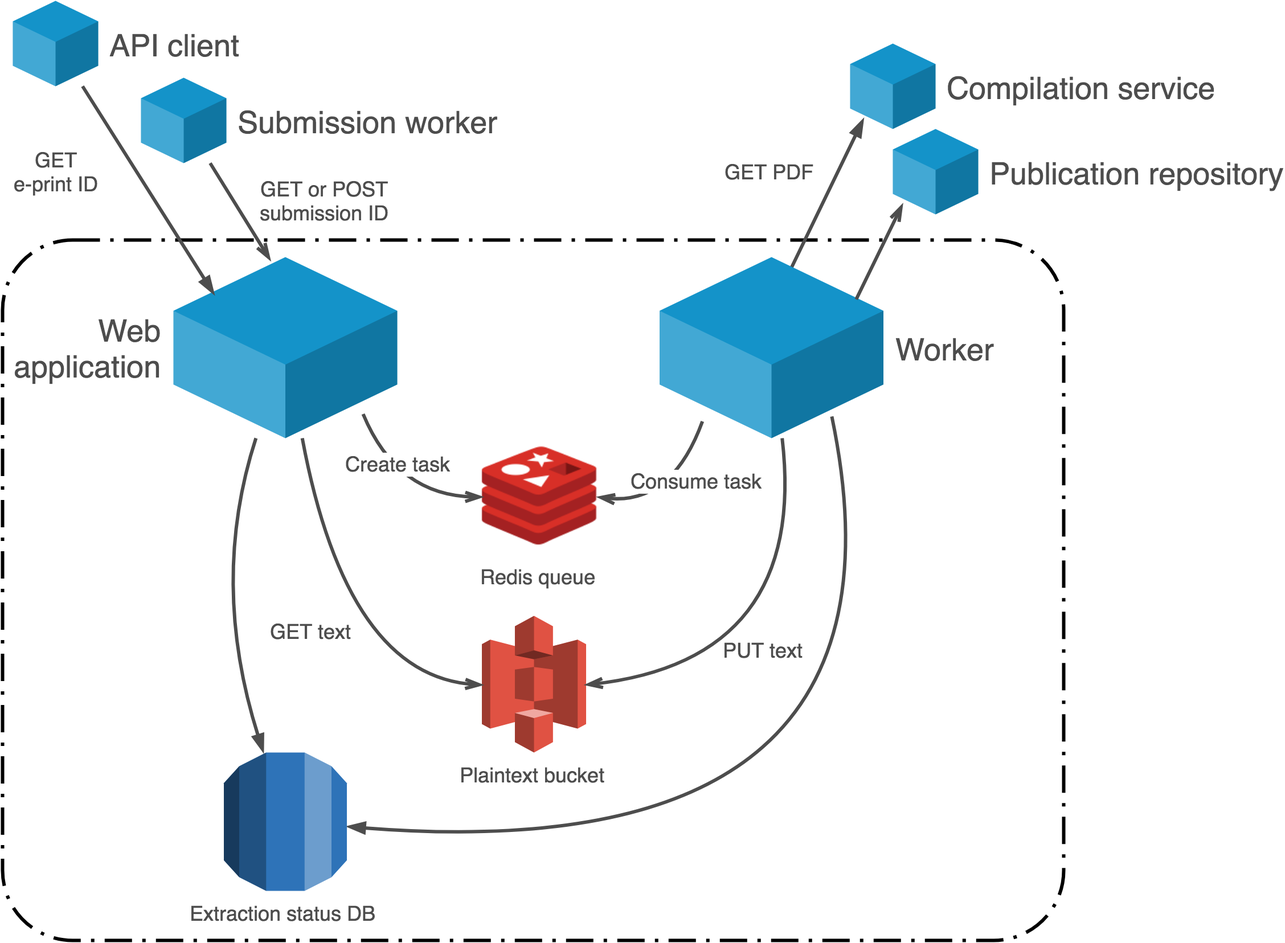
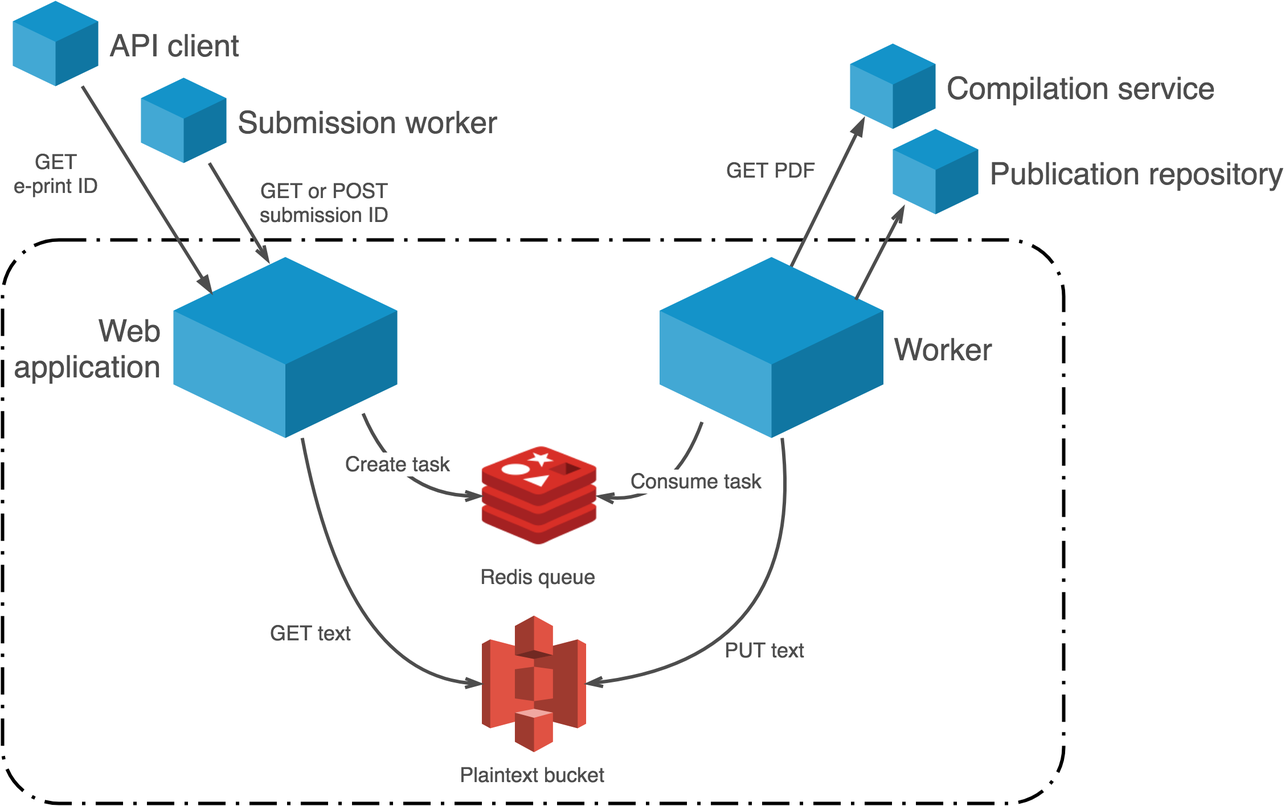
updated docs

diff --git a/searchindex.js b/searchindex.js
@@ -1,1 +1,1 @@
-Search.setIndex({docnames:["architecture","fulltext/fulltext","fulltext/fulltext.agent","fulltext/fulltext.agent.consumer","fulltext/fulltext.agent.tests","fulltext/fulltext.agent.tests.test_record_processor","fulltext/fulltext.celery","fulltext/fulltext.celeryconfig","fulltext/fulltext.config","fulltext/fulltext.controllers","fulltext/fulltext.extract","fulltext/fulltext.factory","fulltext/fulltext.process","fulltext/fulltext.process.psv","fulltext/fulltext.routes","fulltext/fulltext.services","fulltext/fulltext.services.pdf","fulltext/fulltext.services.store","fulltext/fulltext.services.store.tests","fulltext/fulltext.worker","index"],envversion:53,filenames:["architecture.rst","fulltext/fulltext.rst","fulltext/fulltext.agent.rst","fulltext/fulltext.agent.consumer.rst","fulltext/fulltext.agent.tests.rst","fulltext/fulltext.agent.tests.test_record_processor.rst","fulltext/fulltext.celery.rst","fulltext/fulltext.celeryconfig.rst","fulltext/fulltext.config.rst","fulltext/fulltext.controllers.rst","fulltext/fulltext.extract.rst","fulltext/fulltext.factory.rst","fulltext/fulltext.process.rst","fulltext/fulltext.process.psv.rst","fulltext/fulltext.routes.rst","fulltext/fulltext.services.rst","fulltext/fulltext.services.pdf.rst","fulltext/fulltext.services.store.rst","fulltext/fulltext.services.store.tests.rst","fulltext/fulltext.worker.rst","index.rst"],objects:{"":{fulltext:[1,0,0,"-"]},"fulltext.agent":{consumer:[3,0,0,"-"],tests:[4,0,0,"-"]},"fulltext.agent.consumer":{BadMessage:[3,1,1,""],FulltextRecordProcessor:[3,2,1,""]},"fulltext.agent.consumer.FulltextRecordProcessor":{process_record:[3,3,1,""],sleep:[3,4,1,""]},"fulltext.agent.tests":{test_record_processor:[5,0,0,"-"]},"fulltext.agent.tests.test_record_processor":{TestIndexPaper:[5,2,1,""]},"fulltext.agent.tests.test_record_processor.TestIndexPaper":{setUp:[5,3,1,""],test_notify:[5,3,1,""]},"fulltext.config":{APPLICATION_ROOT:[8,5,1,""],DEBUG:[8,5,1,""],EXPLAIN_TEMPLATE_LOADING:[8,5,1,""],JSONIFY_MIMETYPE:[8,5,1,""],JSONIFY_PRETTYPRINT_REGULAR:[8,5,1,""],JSON_AS_ASCII:[8,5,1,""],JSON_SORT_KEYS:[8,5,1,""],KINESIS_ENDPOINT:[8,5,1,""],KINESIS_SLEEP:[8,5,1,""],KINESIS_STREAM:[8,5,1,""],KINESIS_VERIFY:[8,5,1,""],LOGGER_HANDLER_POLICY:[8,5,1,""],LOGGER_NAME:[8,5,1,""],MAX_CONTENT_LENGTH:[8,5,1,""],PERMANENT_SESSION_LIFETIME:[8,5,1,""],PREFERRED_URL_SCHEME:[8,5,1,""],PRESERVE_CONTEXT_ON_EXCEPTION:[8,5,1,""],PROPAGATE_EXCEPTIONS:[8,5,1,""],SECRET_KEY:[8,5,1,""],SEND_FILE_MAX_AGE_DEFAULT:[8,5,1,""],SERVER_NAME:[8,5,1,""],SESSION_COOKIE_DOMAIN:[8,5,1,""],SESSION_COOKIE_HTTPONLY:[8,5,1,""],SESSION_COOKIE_NAME:[8,5,1,""],SESSION_COOKIE_PATH:[8,5,1,""],SESSION_COOKIE_SECURE:[8,5,1,""],SESSION_REFRESH_EACH_REQUEST:[8,5,1,""],TEMPLATES_AUTO_RELOAD:[8,5,1,""],TESTING:[8,5,1,""],TRAP_BAD_REQUEST_ERRORS:[8,5,1,""],TRAP_HTTP_EXCEPTIONS:[8,5,1,""],USE_X_SENDFILE:[8,5,1,""],VERSION:[8,5,1,""]},"fulltext.controllers":{extract:[9,6,1,""],get_task_status:[9,6,1,""],retrieve:[9,6,1,""]},"fulltext.extract":{do_extraction:[10,6,1,""],run_docker:[10,6,1,""],update_sent_state:[10,6,1,""]},"fulltext.factory":{create_web_app:[11,6,1,""],create_worker_app:[11,6,1,""]},"fulltext.process":{psv:[13,0,0,"-"]},"fulltext.process.psv":{expandWords:[13,6,1,""],normalize_text_psv:[13,6,1,""],process_text:[13,6,1,""],split_on_references:[13,6,1,""],tidy_txt_from_pdf:[13,6,1,""]},"fulltext.routes":{best_match:[14,6,1,""],extract_fulltext:[14,6,1,""],ok:[14,6,1,""],retrieve:[14,6,1,""],retrieve_submission:[14,6,1,""],task_status:[14,6,1,""]},"fulltext.services":{pdf:[16,0,0,"-"],store:[17,0,0,"-"]},"fulltext.services.pdf":{RetrievePDFSession:[16,2,1,""],current_session:[16,6,1,""],exists:[16,6,1,""],get_session:[16,6,1,""],init_app:[16,6,1,""],is_valid_url:[16,6,1,""],retrieve:[16,6,1,""]},"fulltext.services.pdf.RetrievePDFSession":{exists:[16,3,1,""],is_valid_url:[16,3,1,""],retrieve:[16,3,1,""]},"fulltext.services.store":{DoesNotExist:[17,1,1,""],S3Session:[17,2,1,""],current_session:[17,6,1,""],exists:[17,6,1,""],get_session:[17,6,1,""],init_app:[17,6,1,""],retrieve:[17,6,1,""],store:[17,6,1,""],tests:[18,0,0,"-"]},"fulltext.services.store.S3Session":{create_bucket:[17,3,1,""],exists:[17,3,1,""],retrieve:[17,3,1,""],store:[17,3,1,""]},"fulltext.services.store.tests":{TestStore:[18,2,1,""]},"fulltext.services.store.tests.TestStore":{test_store_content:[18,3,1,""]},fulltext:{agent:[2,0,0,"-"],celery:[6,0,0,"-"],celeryconfig:[7,0,0,"-"],config:[8,0,0,"-"],controllers:[9,0,0,"-"],extract:[10,0,0,"-"],factory:[11,0,0,"-"],process:[12,0,0,"-"],routes:[14,0,0,"-"],services:[15,0,0,"-"],worker:[19,0,0,"-"]}},objnames:{"0":["py","module","Python module"],"1":["py","exception","Python exception"],"2":["py","class","Python class"],"3":["py","method","Python method"],"4":["py","attribute","Python attribute"],"5":["py","data","Python data"],"6":["py","function","Python function"]},objtypes:{"0":"py:module","1":"py:exception","2":"py:class","3":"py:method","4":"py:attribute","5":"py:data","6":"py:function"},terms:{"03t14":3,"boolean":10,"byte":[3,8],"case":[5,18],"class":[3,5,16,17,18],"default":[8,10,14,17],"function":10,"import":[],"int":[3,9],"new":[0,2,13,16,17,20],"public":[0,20],"return":[3,8,9,10,13,14,16,17,20],"static":8,"true":[3,8,10,16,17],"try":[],"while":[],AWS:[],CVS:13,Eqs:13,For:2,TLS:[],That:[],The:[0,2,5,8,13,16,17,20],These:[],Used:17,Uses:17,With:8,abbrevi:13,abl:20,about:[],accept:[14,16],access:20,access_kei:3,account:[],action:[],activ:8,actor:[],addit:13,addition:10,address:[],affect:8,after:0,age:8,agent:[1,8],all:[5,8,13,20],allow:20,along:[],alphabet:13,also:[0,8,17],altern:[8,13],alwai:8,amount:8,analysi:[],ancestor:[],ani:[8,9,10,20],announc:[0,20],anoth:[],api:[0,14,20],app:[16,17],appear:8,applic:[0,6,8,9,11,16,17,19,20],application_root:8,architectur:20,arg:10,argument:10,arrai:[],articl:13,arxiv:[0,3,5,9,10,13,14,16,17],ascii:[8,13],asdf1234:8,associ:16,assum:[],asynchron:10,at_timestamp:3,attack:[],attempt:8,attribut:[],authent:[],author:[],automat:[8,20],avail:[0,8,13,14,16],aws_access_key_id:17,aws_secret_access_kei:17,back_off:3,bad:[8,13],badmessag:3,badrequest:8,balanc:[],base:[3,5,16,17,18],baseconsum:3,baselin:[],basi:8,batch_siz:3,befor:8,behavior:8,being:[],best:14,best_match:14,better:13,between:[],bibliographi:13,blueprint:[8,14],board:[],bodi:10,bool:[16,17],both:[0,20],botocor:17,broad:[],broadli:13,browser:[],brute:[],bubbl:8,bucket:[0,17],build:[],bulk:0,bump:8,bypass:[],cach:8,cacheabl:8,call:3,can:[8,10],cannot:[0,8],caus:[],celeri:[0,1,7,19],celeryconfig:1,certif:8,chang:[0,8],charact:13,check:[8,9,14,17],checkpoint:3,chosen:[],clean:13,cleanup:[10,12],click:[],client:[0,17],cluster:[],cmd:10,code:8,combin:[],come:8,command:[],common:13,compar:[],comparison:[],compil:0,complet:2,compon:11,compromis:[],confid:[],config:1,configur:[7,8,16,17],conjunct:17,consid:[],consist:8,consum:[0,1,2],contain:20,container_dir:10,content:[0,8,9,14,17,18,20],content_format:[9,14,17],content_typ:9,context:[8,16,20],control:[1,8],convers:13,convert:13,cooki:8,core:16,corpu:20,correspond:17,corrupt:[],cost:8,could:17,creat:[0,3,16,17],create_bucket:17,create_web_app:11,create_worker_app:11,creation:[],credenti:[],csrf:[],current:[14,17],current_sess:[16,17],daemon:10,data:[3,8,17],databas:0,datetim:8,deal:8,debug:8,debugg:8,decrypt:[],delet:[],deploi:[],desktop:[],deter:[],determin:[14,16,17],dev:8,develop:[],devic:[],dict:[9,17],dictionari:8,differ:[],digest:[],direct:[],disabl:8,disallow:16,displai:[],do_extract:10,doc:7,docker:10,dockerfil:10,docsim:13,docstr:8,document:[3,8,16],document_id:16,doe:[0,8,17],doesnotexist:17,domain:8,done:8,downstream:0,dsl:[],duplic:0,durat:3,dure:0,each:[2,3,8],either:8,enabl:8,encod:8,encompass:[],encount:3,encrypt:[],end:[],endpoint:[3,8],endpoint_url:17,enforc:8,ensur:8,enter:[],entir:[8,20],equat:13,error:8,escap:[],evalu:16,event:[],everi:8,evolv:[],exactli:8,exampl:[],except:[3,8,17],execut:8,exfiltr:[],exist:[0,10,16,17],exp:13,expand:13,expandword:13,explain:8,explain_template_load:8,explicitli:8,expos:10,extern:[0,8,15],extract:[0,1,2,3,8,9,13,14,17,18],extract_fulltext:14,extractor:[0,17],facil:17,factori:1,fail:[3,8],failur:[],fals:[8,10,17],fig:13,figur:[8,13],file:8,filehandl:10,filenam:10,find:[0,8],fix:13,flag:8,flask:[0,8],follow:[],foocooki:[],forc:[0,8,9],forev:10,form:[13,20],format:[10,13,17,20],former:[],found:8,frame:[],fraudul:[],from:[0,8,10,13,16,17,20],fulfil:0,full:[9,13,14,16,17,20],fulltext:0,fulltextrecordprocessor:3,gain:[],gener:[0,2,8,10,17],get:[0,8,14,16,17],get_send_file_max_ag:8,get_sess:[16,17],get_task_statu:9,getuid:10,give:[8,13],given:14,greater:8,greek:13,group:13,hairi:8,handl:[0,9,14],handler:8,harvest:[],has:5,hash:8,have:8,head:16,header:[8,10,14,16],health:14,heavili:[],help:[0,8],here:[],high:0,higher:[],hook:8,host_dir:10,hour:8,how:8,html:[],http:[0,8,16],httponli:8,human:[],id_typ:[9,14],identifi:[16,17],ifram:[],ignor:13,imag:10,imperson:[],implement:0,implicitli:8,imposs:[],improv:[8,20],includ:0,incom:8,independ:8,index:[0,3,5,8,20],indexingfail:3,indic:[3,8],individu:3,info:8,inform:14,infrastructur:[],init_app:[16,17],initi:[5,6,11,19],inject:[],insecur:[],instanc:[8,11,16],instead:8,integ:8,integr:[14,15,16],interact:[],intercept:[],interest:[],interfac:16,intern:8,internet:[],introspect:8,invalid:16,involv:[],ioerror:16,is_placehold:17,is_valid_url:16,issu:[],its:0,itself:[],jack:[],json:[8,9,17],json_as_ascii:8,json_sort_kei:8,jsonifi:8,jsonify_mimetyp:8,jsonify_prettyprint_regular:8,just:[13,17],jwt:[],kei:8,keyword:13,kind:[],kinesi:0,kinesis_endpoint:8,kinesis_sleep:8,kinesis_stream:8,kinesis_verifi:8,know:8,kubernet:[],kwarg:10,larg:[],last:13,latest:0,latter:[],launch:10,leak:[],leakag:[],left:13,legaci:[],length:8,level:0,leverag:0,lifetim:8,lightweight:0,like:8,likewis:8,limit:[],line:13,list:[10,13],live:8,load:8,localhost:8,locat:[8,16],log:8,logger:8,logger_handler_polici:8,logger_nam:8,look:13,mai:0,mail:[],make:[0,10],make_respons:[],malform:3,malici:[],mani:[3,8],manipul:[],mark:13,markupsaf:[],max:8,max_content_length:8,max_refs_fract:13,mean:8,mechan:13,messag:8,metadata:[],metadatarecordprocessor:5,method:[12,13],methodnam:[5,18],might:8,mime:8,minim:[],mitig:[],mobil:[],mock_client_factori:[5,18],mock_get_config:18,mock_task:5,mock_url_for:5,mode:8,modif:8,modifi:8,modul:[1,2,4,12,15,17,20],monitor:0,more:13,most:[0,20],mount:10,move:8,must:20,myapp:8,name:[8,10],necessari:0,never:8,nevertheless:[],newlin:13,next:8,nice:8,non:[8,13],nonc:[],none:[3,8,9,10,14,16,17],normal:13,normalize_text_psv:13,note:8,notif:[0,2,3],number:[8,13],object:[8,13,16,17],occupi:8,occur:20,occurr:13,one:5,onli:[5,8,13,20],oper:8,option:[],order:8,organ:0,origin:8,orm:[],other:[0,8,17],otherwis:16,our:[10,20],out:8,output:8,over:20,overlap:13,overrid:8,overt:[],overview:[],own:[],packag:20,page:20,paper:[0,2,3,5,9,14,16,17,20],paper_id:[9,14,17],paramet:[3,9,10,13,16,17],part:[0,13],particular:[],partition_kei:3,pass:[3,16],password:[],path:[8,16],payload:[],pdf2txt:13,pdf:[0,1,10,13,15],pdfisavail:[2,3,8],per:8,perfect:[],perform:[0,2,8],perl:13,perman:8,permanent_session_lifetim:8,placehold:17,plain:[9,14,17,20],platform:[],polici:8,pop:8,port:[8,10],possibl:20,post:0,potenti:[],preferred_url_schem:8,premis:[],preserve_context_on_except:8,pretti:8,prevent:0,primarili:[],print:[0,8,20],privat:0,problem:16,process:[0,1,10,20],process_record:3,process_text:13,processor:3,product:8,prof:13,programmat:[],progress:0,project:[],prop:[],propag:8,propagate_except:8,properli:[],protocol:[],provid:[0,3,10,12,13,14,16,20],proxi:[],pseudo:[],psv:[1,12,17,20],publicli:[],publish:16,purpos:[],queri:[],queue:0,rais:[3,8,16],random:[],rather:10,raw:[10,13,20],reason:[],recent:[0,20],recommend:8,record:[3,8],recoveri:3,redi:0,ref:13,refer:[13,14],reflect:[],refresh:8,region:3,region_nam:17,regular:8,reject:8,relat:0,relev:[],reload:8,rememb:[],remov:13,replac:13,replai:[],repositori:10,repres:[8,10,17],request:[0,8,9,14,16,17,20],requir:[8,17],research:20,resourc:16,respect:8,respons:[2,8,10],restrict:[],result:0,retriev:[0,9,13,14,16,17],retrieve_submiss:14,retrievepdfsess:16,riski:8,robot:[],rout:1,run:10,run_dock:10,runtest:[5,18],runtimeerror:[3,17],s3session:17,safe:[],salt:[],sameorigin:[],samesit:[],sampl:[],scenario:[],scheme:[8,16],script:[],search:[5,20],second:8,secret:8,secret_kei:[3,8],sect:13,section:13,secur:8,see:7,seed:8,self:[16,17],send:[],send_fil:8,send_file_max_age_default:8,send_static_fil:8,sender:10,sendfil:8,sensit:[],sent:[8,10],sentenc:13,separ:13,sequence_numb:3,serial:8,serializ:17,server:8,server_nam:8,servic:[0,1,10,11],session:[8,17],session_cookie_domain:8,session_cookie_httponli:8,session_cookie_nam:8,session_cookie_path:8,session_cookie_secur:8,session_refresh_each_request:8,set:[8,10,17],set_cooki:[],setup:5,shard_id:3,share:[],should:[8,13,17,20],side:[],sign:8,simeon:13,simpl:10,simpler:13,simpli:[],sinc:[8,20],singl:13,situat:8,sleep:3,softwar:[],solut:[],some:[],sourc:[3,5,8,9,10,11,13,14,16,17,18],special:8,specif:8,split_on_refer:13,sql:[],sqlalchemi:[],ssl:8,stack:8,start:[8,13],start_at:3,start_typ:3,state:[0,10],statement:[],statu:[8,9,14],storag:17,store:[0,1,15,16],str:[9,10,13,16,17],stream:[0,2,8],stream_nam:3,string:[8,13],structur:8,sub_sequence_numb:3,subdomain:8,submiss:[0,17,20],submodul:20,subpackag:20,subscrib:8,subsequ:3,successfulli:[],suitabl:0,support:[0,8,20],symbol:13,system:0,tag:10,take:[],target:16,task:[0,2,3,10,14],task_id:[9,14],task_statu:14,tell:10,templat:8,templates_auto_reload:8,temporari:16,test:[1,2,8,15,17],test_notifi:5,test_record_processor:[1,2,4],test_store_cont:18,testcas:[5,18],testindexpap:5,teststor:18,text:[9,12,13,14,17,20],than:[8,13],thei:8,themselv:[],thi:[0,8,10,13,16,17],those:8,through:8,tidy_txt_from_pdf:13,tidytext:13,time:[8,20],timedelta:8,token:20,too:3,tool:[],traceback:8,track:0,transform:13,transit:[],transmit:[],transport:8,trap_bad_request_error:8,trap_http_except:8,trash:8,treat:8,trick:[],troubleshoot:[],trust:[],tupl:[9,10,13,14],txt:13,type:[3,8,9,10,13,14,16,17],typic:13,unauthor:[],underli:17,undermin:[],understand:[],unicod:8,uniqu:17,unit:5,unittest:[5,18],unlik:3,unsaf:[],updat:[],update_sent_st:10,url:[8,16],use:[8,20],use_x_sendfil:8,used:[0,8,17],useful:8,user:[],userid:10,usernam:[],uses:10,using:[0,8,13],usual:[13,17],utf:8,util:13,valid:8,valu:8,valueerror:16,variabl:8,vector:[],veri:8,verif:8,verifi:[3,17],verify_cert:16,version:[0,5,8,9,14,17,20],via:0,victim:[],view:0,visit:[],volum:10,wai:[3,8],wait:8,want:[],web:[0,11],well:20,were:[],werkzeug:8,what:0,when:[0,16],whenev:20,where:[8,17],wherev:[],whether:[8,10,16,17],which:[8,13,17],whitelist:16,whitespac:13,whole:8,why:8,wish:10,without:8,word:13,work:0,worker:[0,1,2,11],workflow:[0,20],would:[],write:8,wrong:8,wtform:[],xml:10,xmlhttprequest:8,xss:[],you:8},titles:["Architecture","fulltext package","fulltext.agent package","fulltext.agent.consumer module","fulltext.agent.tests package","fulltext.agent.tests.test_record_processor module","fulltext.celery module","fulltext.celeryconfig module","fulltext.config module","fulltext.controllers module","fulltext.extract module","fulltext.factory module","fulltext.process package","fulltext.process.psv module","fulltext.routes module","fulltext.services package","fulltext.services.pdf module","fulltext.services.store package","fulltext.services.store.tests module","fulltext.worker module","arXiv Fulltext Extraction Service"],titleterms:{"short":[],agent:[2,3,4,5],architectur:0,arxiv:20,authent:[],author:[],captcha:[],celeri:6,celeryconfig:7,config:8,consider:[],consum:3,contain:0,context:0,control:9,cooki:[],cross:[],data:[],design:[],discontinu:[],environ:[],extract:[10,20],factori:11,forgeri:[],fulltext:[1,2,3,4,5,6,7,8,9,10,11,12,13,14,15,16,17,18,19,20],indic:20,input:[],live:[],log:[],login:[],model:[],modul:[3,5,6,7,8,9,10,11,13,14,16,18,19],object:20,origin:[],packag:[1,2,4,12,15,17],pdf:16,perman:[],polici:[],prevent:[],process:[12,13],protect:[],psv:13,request:[],requir:20,risk:[],rout:14,same:[],sanit:[],secur:[],servic:[15,16,17,18,20],session:[],site:[],store:[17,18],submodul:[1,2,4,12,15,17],subpackag:[1,2,15],tabl:20,test:[4,5,18],test_record_processor:5,threat:[],todo:[],token:[],use:[],worker:19}})
+Search.setIndex({docnames:["architecture","fulltext/fulltext","fulltext/fulltext.agent","fulltext/fulltext.agent.consumer","fulltext/fulltext.agent.tests","fulltext/fulltext.agent.tests.test_record_processor","fulltext/fulltext.celery","fulltext/fulltext.celeryconfig","fulltext/fulltext.config","fulltext/fulltext.controllers","fulltext/fulltext.extract","fulltext/fulltext.factory","fulltext/fulltext.process","fulltext/fulltext.process.psv","fulltext/fulltext.routes","fulltext/fulltext.services","fulltext/fulltext.services.pdf","fulltext/fulltext.services.store","fulltext/fulltext.services.store.tests","fulltext/fulltext.worker","index"],envversion:53,filenames:["architecture.rst","fulltext/fulltext.rst","fulltext/fulltext.agent.rst","fulltext/fulltext.agent.consumer.rst","fulltext/fulltext.agent.tests.rst","fulltext/fulltext.agent.tests.test_record_processor.rst","fulltext/fulltext.celery.rst","fulltext/fulltext.celeryconfig.rst","fulltext/fulltext.config.rst","fulltext/fulltext.controllers.rst","fulltext/fulltext.extract.rst","fulltext/fulltext.factory.rst","fulltext/fulltext.process.rst","fulltext/fulltext.process.psv.rst","fulltext/fulltext.routes.rst","fulltext/fulltext.services.rst","fulltext/fulltext.services.pdf.rst","fulltext/fulltext.services.store.rst","fulltext/fulltext.services.store.tests.rst","fulltext/fulltext.worker.rst","index.rst"],objects:{"":{fulltext:[1,0,0,"-"]},"fulltext.agent":{consumer:[3,0,0,"-"],tests:[4,0,0,"-"]},"fulltext.agent.consumer":{BadMessage:[3,1,1,""],FulltextRecordProcessor:[3,2,1,""]},"fulltext.agent.consumer.FulltextRecordProcessor":{process_record:[3,3,1,""],sleep:[3,4,1,""]},"fulltext.agent.tests":{test_record_processor:[5,0,0,"-"]},"fulltext.agent.tests.test_record_processor":{TestIndexPaper:[5,2,1,""]},"fulltext.agent.tests.test_record_processor.TestIndexPaper":{setUp:[5,3,1,""],test_notify:[5,3,1,""]},"fulltext.config":{APPLICATION_ROOT:[8,5,1,""],DEBUG:[8,5,1,""],EXPLAIN_TEMPLATE_LOADING:[8,5,1,""],JSONIFY_MIMETYPE:[8,5,1,""],JSONIFY_PRETTYPRINT_REGULAR:[8,5,1,""],JSON_AS_ASCII:[8,5,1,""],JSON_SORT_KEYS:[8,5,1,""],KINESIS_ENDPOINT:[8,5,1,""],KINESIS_SLEEP:[8,5,1,""],KINESIS_STREAM:[8,5,1,""],KINESIS_VERIFY:[8,5,1,""],LOGGER_HANDLER_POLICY:[8,5,1,""],LOGGER_NAME:[8,5,1,""],MAX_CONTENT_LENGTH:[8,5,1,""],PERMANENT_SESSION_LIFETIME:[8,5,1,""],PREFERRED_URL_SCHEME:[8,5,1,""],PRESERVE_CONTEXT_ON_EXCEPTION:[8,5,1,""],PROPAGATE_EXCEPTIONS:[8,5,1,""],SECRET_KEY:[8,5,1,""],SEND_FILE_MAX_AGE_DEFAULT:[8,5,1,""],SERVER_NAME:[8,5,1,""],SESSION_COOKIE_DOMAIN:[8,5,1,""],SESSION_COOKIE_HTTPONLY:[8,5,1,""],SESSION_COOKIE_NAME:[8,5,1,""],SESSION_COOKIE_PATH:[8,5,1,""],SESSION_COOKIE_SECURE:[8,5,1,""],SESSION_REFRESH_EACH_REQUEST:[8,5,1,""],TEMPLATES_AUTO_RELOAD:[8,5,1,""],TESTING:[8,5,1,""],TRAP_BAD_REQUEST_ERRORS:[8,5,1,""],TRAP_HTTP_EXCEPTIONS:[8,5,1,""],USE_X_SENDFILE:[8,5,1,""],VERSION:[8,5,1,""]},"fulltext.controllers":{extract:[9,6,1,""],get_task_status:[9,6,1,""],retrieve:[9,6,1,""]},"fulltext.extract":{do_extraction:[10,6,1,""],run_docker:[10,6,1,""],update_sent_state:[10,6,1,""]},"fulltext.factory":{create_web_app:[11,6,1,""],create_worker_app:[11,6,1,""]},"fulltext.process":{psv:[13,0,0,"-"]},"fulltext.process.psv":{expandWords:[13,6,1,""],normalize_text_psv:[13,6,1,""],process_text:[13,6,1,""],split_on_references:[13,6,1,""],tidy_txt_from_pdf:[13,6,1,""]},"fulltext.routes":{best_match:[14,6,1,""],extract_fulltext:[14,6,1,""],ok:[14,6,1,""],retrieve:[14,6,1,""],retrieve_submission:[14,6,1,""],task_status:[14,6,1,""]},"fulltext.services":{pdf:[16,0,0,"-"],store:[17,0,0,"-"]},"fulltext.services.pdf":{RetrievePDFSession:[16,2,1,""],current_session:[16,6,1,""],exists:[16,6,1,""],get_session:[16,6,1,""],init_app:[16,6,1,""],is_valid_url:[16,6,1,""],retrieve:[16,6,1,""]},"fulltext.services.pdf.RetrievePDFSession":{exists:[16,3,1,""],is_valid_url:[16,3,1,""],retrieve:[16,3,1,""]},"fulltext.services.store":{DoesNotExist:[17,1,1,""],S3Session:[17,2,1,""],current_session:[17,6,1,""],exists:[17,6,1,""],get_session:[17,6,1,""],init_app:[17,6,1,""],retrieve:[17,6,1,""],store:[17,6,1,""],tests:[18,0,0,"-"]},"fulltext.services.store.S3Session":{create_bucket:[17,3,1,""],exists:[17,3,1,""],retrieve:[17,3,1,""],store:[17,3,1,""]},"fulltext.services.store.tests":{TestStore:[18,2,1,""]},"fulltext.services.store.tests.TestStore":{test_store_content:[18,3,1,""]},fulltext:{agent:[2,0,0,"-"],celery:[6,0,0,"-"],celeryconfig:[7,0,0,"-"],config:[8,0,0,"-"],controllers:[9,0,0,"-"],extract:[10,0,0,"-"],factory:[11,0,0,"-"],process:[12,0,0,"-"],routes:[14,0,0,"-"],services:[15,0,0,"-"],worker:[19,0,0,"-"]}},objnames:{"0":["py","module","Python module"],"1":["py","exception","Python exception"],"2":["py","class","Python class"],"3":["py","method","Python method"],"4":["py","attribute","Python attribute"],"5":["py","data","Python data"],"6":["py","function","Python function"]},objtypes:{"0":"py:module","1":"py:exception","2":"py:class","3":"py:method","4":"py:attribute","5":"py:data","6":"py:function"},terms:{"03t14":3,"boolean":10,"byte":[3,8],"case":[5,18],"class":[3,5,16,17,18],"default":[8,10,14,17],"function":10,"import":[],"int":[3,9],"new":[0,2,13,16,17,20],"public":[0,20],"return":[3,8,9,10,13,14,16,17,20],"static":8,"true":[3,8,10,16,17],"try":[],"while":[],AWS:[],CVS:13,Eqs:13,For:2,TLS:[],That:[],The:[0,2,5,8,13,16,17,20],These:[],Used:17,Uses:17,With:8,abbrevi:13,abl:20,about:[],accept:[14,16],access:20,access_kei:3,account:[],action:[],activ:8,actor:[],addit:13,addition:10,address:[],affect:8,after:0,age:8,agent:[1,8],all:[5,8,13,20],allow:20,along:[],alphabet:13,also:[8,17],altern:[8,13],alwai:8,amount:8,analysi:[],ancestor:[],ani:[8,9,10,20],announc:[0,20],anoth:[],api:[0,14,20],app:[16,17],appear:8,applic:[0,6,8,9,11,16,17,19,20],application_root:8,architectur:20,arg:10,argument:10,arrai:[],articl:13,arxiv:[0,3,5,9,10,13,14,16,17],ascii:[8,13],asdf1234:8,associ:16,assum:[],asynchron:10,at_timestamp:3,attack:[],attempt:8,attribut:[],authent:[],author:[],automat:[8,20],avail:[0,8,13,14,16],aws_access_key_id:17,aws_secret_access_kei:17,back_off:3,bad:[8,13],badmessag:3,badrequest:8,balanc:[],base:[3,5,16,17,18],baseconsum:3,baselin:[],basi:8,batch_siz:3,befor:8,behavior:8,being:[],best:14,best_match:14,better:13,between:[],bibliographi:13,blueprint:[8,14],board:[],bodi:10,bool:[16,17],both:[0,20],botocor:17,broad:[],broadli:13,browser:[],brute:[],bubbl:8,bucket:[0,17],build:[],bulk:[],bump:8,bypass:[],cach:8,cacheabl:8,call:3,can:[8,10],cannot:[0,8],caus:[],celeri:[0,1,7,19],celeryconfig:1,certif:8,chang:[0,8],charact:13,check:[8,9,14,17],checkpoint:3,chosen:[],clean:13,cleanup:[10,12],click:[],client:[0,17],cluster:[],cmd:10,code:8,combin:[],come:8,command:[],common:13,compar:[],comparison:[],compil:0,complet:2,compon:11,compromis:[],confid:[],config:1,configur:[7,8,16,17],conjunct:17,consid:[],consist:8,consum:[0,1,2],contain:20,container_dir:10,content:[0,8,9,14,17,18,20],content_format:[9,14,17],content_typ:9,context:[8,16,20],control:[1,8],convers:13,convert:13,cooki:8,core:16,corpu:20,correspond:17,corrupt:[],cost:8,could:17,creat:[0,3,16,17],create_bucket:17,create_web_app:11,create_worker_app:11,creation:[],credenti:[],csrf:[],current:[14,17],current_sess:[16,17],daemon:10,data:[3,8,17],databas:[],datetim:8,deal:8,debug:8,debugg:8,decrypt:[],delet:[],deploi:[],desktop:[],deter:[],determin:[14,16,17],dev:8,develop:[],devic:[],dict:[9,17],dictionari:8,differ:[],digest:[],direct:[],disabl:8,disallow:16,displai:[],do_extract:10,doc:7,docker:10,dockerfil:10,docsim:13,docstr:8,document:[3,8,16],document_id:16,doe:[0,8,17],doesnotexist:17,domain:8,done:8,downstream:0,dsl:[],duplic:0,durat:3,dure:0,each:[2,3,8],either:8,enabl:8,encod:8,encompass:[],encount:3,encrypt:[],end:[],endpoint:[3,8],endpoint_url:17,enforc:8,ensur:8,enter:[],entir:[8,20],equat:13,error:8,escap:[],evalu:16,event:[],eventu:0,everi:8,evolv:[],exactli:8,exampl:[],except:[3,8,17],execut:8,exfiltr:[],exist:[0,10,16,17],exp:13,expand:13,expandword:13,explain:8,explain_template_load:8,explicitli:8,expos:10,extern:[0,8,15],extract:[0,1,2,3,8,9,13,14,17,18],extract_fulltext:14,extractor:[0,17],facil:17,factori:1,fail:[3,8],failur:[],fals:[8,10,17],fig:13,figur:[8,13],file:[0,8],filehandl:10,filenam:10,find:[0,8],fix:13,flag:8,flask:[0,8],follow:[],foocooki:[],forc:[0,8,9],forev:10,form:[13,20],format:[10,13,17,20],former:[],found:8,frame:[],fraudul:[],from:[0,8,10,13,16,17,20],fulfil:0,full:[9,13,14,16,17,20],fulltext:0,fulltextrecordprocessor:3,gain:[],gener:[0,2,8,10,17],get:[0,8,14,16,17],get_send_file_max_ag:8,get_sess:[16,17],get_task_statu:9,getuid:10,give:[8,13],given:14,greater:8,greek:13,group:13,hairi:8,handl:[0,9,14],handler:8,harvest:[],has:5,hash:8,have:8,head:16,header:[8,10,14,16],health:14,heavili:[],help:[0,8],here:[],high:[],higher:[],hook:8,host_dir:10,hour:8,how:8,html:[],http:[0,8,16],httponli:8,human:[],id_typ:[9,14],identifi:[16,17],ifram:[],ignor:13,imag:10,imperson:[],implement:0,implicitli:8,imposs:[],improv:[8,20],includ:0,incom:8,independ:8,index:[0,3,5,8,20],indexingfail:3,indic:[3,8],individu:3,info:8,inform:14,infrastructur:[],init_app:[16,17],initi:[5,6,11,19],inject:[],insecur:[],instanc:[8,11,16],instead:8,integ:8,integr:[14,15,16],interact:[],intercept:[],interest:[],interfac:16,intern:8,internet:[],introspect:8,invalid:16,involv:[],ioerror:16,is_placehold:17,is_valid_url:16,issu:[],its:0,itself:[],jack:[],json:[8,9,17],json_as_ascii:8,json_sort_kei:8,jsonifi:8,jsonify_mimetyp:8,jsonify_prettyprint_regular:8,just:[13,17],jwt:[],kei:8,keyword:13,kind:[],kinesi:0,kinesis_endpoint:8,kinesis_sleep:8,kinesis_stream:8,kinesis_verifi:8,know:8,kubernet:[],kwarg:10,larg:[],last:13,latest:0,latter:[],launch:10,leak:[],leakag:[],left:13,legaci:[],length:8,level:0,leverag:[],lifetim:8,lightweight:[],like:8,likewis:8,limit:[],line:13,list:[10,13],live:8,load:8,localhost:8,locat:[8,16],log:8,logger:8,logger_handler_polici:8,logger_nam:8,look:13,mai:0,mail:[],make:[0,10],make_respons:[],malform:3,malici:[],mani:[3,8],manipul:[],mark:13,markupsaf:[],max:8,max_content_length:8,max_refs_fract:13,mean:8,mechan:13,messag:8,metadata:[],metadatarecordprocessor:5,method:[12,13],methodnam:[5,18],might:8,mime:8,minim:[],mitig:[],mobil:[],mock_client_factori:[5,18],mock_get_config:18,mock_task:5,mock_url_for:5,mode:8,modif:8,modifi:8,modul:[1,2,4,12,15,17,20],monitor:0,more:13,most:[0,20],mount:10,move:8,must:20,myapp:8,name:[8,10],necessari:[],never:8,nevertheless:[],newlin:13,next:8,nice:8,non:[8,13],nonc:[],none:[3,8,9,10,14,16,17],normal:13,normalize_text_psv:13,note:8,notif:[0,2,3],number:[8,13],object:[8,13,16,17],occupi:8,occur:20,occurr:13,one:5,onli:[5,8,13,20],oper:8,option:[],order:8,organ:0,origin:8,orm:[],other:[0,8,17],otherwis:16,our:[10,20],out:8,output:8,over:20,overlap:13,overrid:8,overt:[],overview:[],own:[],packag:20,page:20,paper:[0,2,3,5,9,14,16,17,20],paper_id:[9,14,17],paramet:[3,9,10,13,16,17],part:[0,13],particular:[],partition_kei:3,pass:[3,16],password:[],path:[8,16],payload:[],pdf2txt:13,pdf:[0,1,10,13,15],pdfisavail:[2,3,8],per:8,perfect:[],perform:[0,2,8],perl:13,perman:8,permanent_session_lifetim:8,placehold:[0,17],plain:[9,14,17,20],platform:[],polici:8,pop:8,port:[8,10],possibl:20,post:0,potenti:[],preferred_url_schem:8,premis:[],preserve_context_on_except:8,pretti:8,prevent:0,primarili:[],print:[0,8,20],privat:0,problem:16,process:[0,1,10,20],process_record:3,process_text:13,processor:3,product:8,prof:13,programmat:[],progress:[],project:[],prop:[],propag:8,propagate_except:8,properli:[],protocol:[],provid:[3,10,12,13,14,16,20],proxi:[],pseudo:[],psv:[1,12,17,20],publicli:[],publish:16,purpos:[],queri:[],queue:0,rais:[3,8,16],random:[],rather:10,raw:[10,13,20],reason:[],recent:[0,20],recommend:8,record:[3,8],recoveri:3,redi:0,ref:13,refer:[13,14],reflect:[],refresh:8,region:3,region_nam:17,regular:8,reject:8,relat:[],relev:[],reload:8,rememb:[],remov:13,replac:13,replai:[],repositori:10,repres:[8,10,17],request:[0,8,9,14,16,17,20],requir:[8,17],research:20,resourc:16,respect:8,respons:[2,8,10],restrict:[],result:0,retriev:[0,9,13,14,16,17],retrieve_submiss:14,retrievepdfsess:16,riski:8,robot:[],rout:1,run:10,run_dock:10,runtest:[5,18],runtimeerror:[3,17],s3session:17,safe:[],salt:[],sameorigin:[],samesit:[],sampl:[],scenario:[],scheme:[8,16],script:[],search:[5,20],second:8,secret:8,secret_kei:[3,8],sect:13,section:13,secur:8,see:7,seed:8,self:[16,17],send:[],send_fil:8,send_file_max_age_default:8,send_static_fil:8,sender:10,sendfil:8,sensit:[],sent:[8,10],sentenc:13,separ:13,sequence_numb:3,serial:8,serializ:17,server:8,server_nam:8,servic:[0,1,10,11],session:[8,17],session_cookie_domain:8,session_cookie_httponli:8,session_cookie_nam:8,session_cookie_path:8,session_cookie_secur:8,session_refresh_each_request:8,set:[8,10,17],set_cooki:[],setup:5,shard_id:3,share:[],should:[8,13,17,20],side:[],sign:8,simeon:13,simpl:10,simpler:13,simpli:[],sinc:[8,20],singl:13,situat:8,sleep:3,softwar:[],solut:[],some:[],sourc:[3,5,8,9,10,11,13,14,16,17,18],special:8,specif:8,split_on_refer:13,sql:[],sqlalchemi:[],ssl:8,stack:8,start:[8,13],start_at:3,start_typ:3,state:10,statement:[],statu:[8,9,14],storag:17,store:[0,1,15,16],str:[9,10,13,16,17],stream:[0,2,8],stream_nam:3,string:[8,13],structur:8,sub_sequence_numb:3,subdomain:8,submiss:[0,17,20],submodul:20,subpackag:20,subscrib:8,subsequ:3,successfulli:[],suitabl:0,support:[0,8,20],symbol:13,system:0,tag:10,take:[],target:16,task:[0,2,3,10,14],task_id:[9,14],task_statu:14,tell:10,templat:8,templates_auto_reload:8,temporari:16,test:[1,2,8,15,17],test_notifi:5,test_record_processor:[1,2,4],test_store_cont:18,testcas:[5,18],testindexpap:5,teststor:18,text:[9,12,13,14,17,20],than:[8,13],thei:8,themselv:[],thi:[0,8,10,13,16,17],those:8,through:8,tidy_txt_from_pdf:13,tidytext:13,time:[8,20],timedelta:8,token:20,too:3,tool:[],traceback:8,track:[],transform:13,transit:[],transmit:[],transport:8,trap_bad_request_error:8,trap_http_except:8,trash:8,treat:8,trick:[],troubleshoot:[],trust:[],tupl:[9,10,13,14],txt:13,type:[3,8,9,10,13,14,16,17],typic:13,unauthor:[],underli:17,undermin:[],understand:[],unicod:8,uniqu:17,unit:5,unittest:[5,18],unlik:3,unsaf:[],updat:[],update_sent_st:10,url:[8,16],use:[8,20],use_x_sendfil:8,used:[0,8,17],useful:8,user:[],userid:10,usernam:[],uses:10,using:[0,8,13],usual:[13,17],utf:8,util:13,valid:8,valu:8,valueerror:16,variabl:8,vector:[],veri:8,verif:8,verifi:[3,17],verify_cert:16,version:[0,5,8,9,14,17,20],via:0,victim:[],view:0,visit:[],volum:10,wai:[3,8],wait:8,want:[],web:[0,11],well:20,were:[],werkzeug:8,what:[],when:[0,16],whenev:20,where:[0,8,17],wherev:[],whether:[8,10,16,17],which:[8,13,17],whitelist:16,whitespac:13,whole:8,why:8,wish:10,without:8,word:13,work:0,worker:[0,1,2,11],workflow:[0,20],would:[],write:8,wrong:8,wtform:[],xml:10,xmlhttprequest:8,xss:[],you:8},titles:["Architecture","fulltext package","fulltext.agent package","fulltext.agent.consumer module","fulltext.agent.tests package","fulltext.agent.tests.test_record_processor module","fulltext.celery module","fulltext.celeryconfig module","fulltext.config module","fulltext.controllers module","fulltext.extract module","fulltext.factory module","fulltext.process package","fulltext.process.psv module","fulltext.routes module","fulltext.services package","fulltext.services.pdf module","fulltext.services.store package","fulltext.services.store.tests module","fulltext.worker module","arXiv Fulltext Extraction Service"],titleterms:{"short":[],agent:[2,3,4,5],architectur:0,arxiv:20,authent:[],author:[],captcha:[],celeri:6,celeryconfig:7,config:8,consider:[],consum:3,contain:0,context:0,control:9,cooki:[],cross:[],data:[],design:[],discontinu:[],environ:[],extract:[10,20],factori:11,forgeri:[],fulltext:[1,2,3,4,5,6,7,8,9,10,11,12,13,14,15,16,17,18,19,20],indic:20,input:[],live:[],log:[],login:[],model:[],modul:[3,5,6,7,8,9,10,11,13,14,16,18,19],object:20,origin:[],packag:[1,2,4,12,15,17],pdf:16,perman:[],polici:[],prevent:[],process:[12,13],protect:[],psv:13,request:[],requir:20,risk:[],rout:14,same:[],sanit:[],secur:[],servic:[15,16,17,18,20],session:[],site:[],store:[17,18],submodul:[1,2,4,12,15,17],subpackag:[1,2,15],tabl:20,test:[4,5,18],test_record_processor:5,threat:[],todo:[],token:[],use:[],worker:19}})

diff --git a/architecture.html b/architecture.html
@@ -67,13 +67,10 @@ the request, or if re-extraction is forced via a POST request, it creates a
 task for a worker process on a Redis queue (using Celery).</p>
 <p>The worker process monitors the Redis queue, and does the work of retrieving
 PDFs, performing extractions, and storing the results.</p>
-<p>A lightweight relational database is used to track the extraction state of
-submissions and announced e-prints. This helps to prevent duplicate extraction
-tasks, and provides a high-level view of what extractions are available or
-in progress. This is also leveraged to perform bulk re-extraction when
-necessary.</p>
 <p>Extractions are stored in a private S3 bucket, and organized by submission or
-e-print ID and extractor version.</p>
+e-print ID and extractor version. When an extraction task is created, a
+placeholder file with the task ID is stored where the content will eventually
+be. This helps to prevent duplicate extraction tasks.</p>
 <div class="figure" id="id2">
 <span id="figure-containers"></span><a class="reference internal image-reference" href="_images/fulltext-service-containers.png"><img alt="_images/fulltext-service-containers.png" src="_images/fulltext-service-containers.png" style="width: 450px;" /></a>
 <p class="caption"><span class="caption-text">Container-level view of the fulltext extraction service.</span></p>
